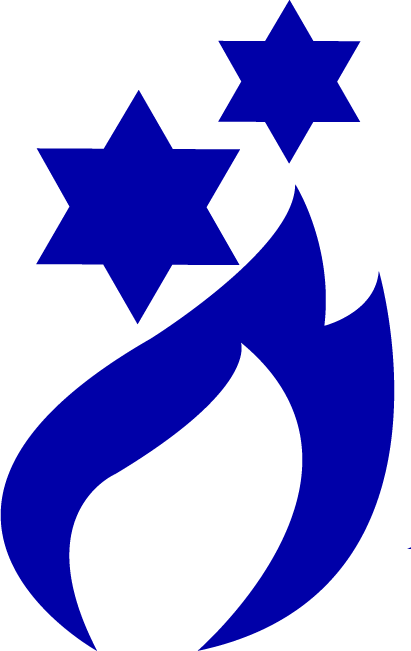
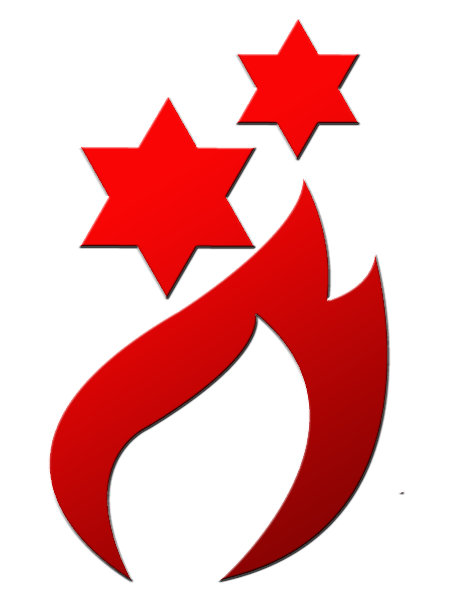
incorporate theme

diff --git a/src/components/PaymentSection.tsx b/src/components/PaymentSection.tsx
@@ -6,8 +6,8 @@ import '../App.css';
 
 const useStyles = makeStyles({
     badge: {
-        backgroundColor: 'gold',
-        color: 'black'
+        backgroundColor: '#F90505',
+        color: 'white'
     }
 });
 
@@ -24,7 +24,7 @@ export const PaymentSection = (props: StateProps) => {
             required
         />
         <ButtonGroup>
-            <Badge classes={{ badge: classes.badge }} badgeContent={`$${sum(state.selectedBoxes)}`} showZero={false} max={69000}>
+            <Badge classes={{ badge: classes.badge }} badgeContent={`$${sum(state.selectedBoxes)}`} showZero={false} max={100000}>
                 <Button size={'large'} color={'primary'} variant={'contained'} disableRipple={false}
                         onClick={() => handlePayNowButton(state)}>Pay Now</Button>
             </Badge>

diff --git a/src/App.tsx b/src/App.tsx
@@ -4,6 +4,7 @@ import {TzedakahTable} from "./components/TzedakahTable";
 import {PaymentSection} from "./components/PaymentSection";
 import {INITIAL_STATE} from "./constants";
 import {getLatestBoxesTaken} from "./handlers/getLatestBoxesTaken";
+import Logo from './images/mission-possible-logo.png';
 
 const App = () => {
     const [state, setState] = useState(INITIAL_STATE);
@@ -11,7 +12,7 @@ const App = () => {
     useEffect(() => getLatestBoxesTaken(state, setState), []);
 
     return <div className={'App'}>
-        <h1>Mission Possible</h1>
+        <img className={'Logo'} src={Logo} alt={'Logo'}/>
         <TzedakahTable state={state} setState={setState}/>
         <PaymentSection state={state} setState={setState}/>
     </div>;

diff --git a/src/components/Box.tsx b/src/components/Box.tsx
@@ -14,7 +14,7 @@ export const Box = (props: BoxProps) => {
     const {boxNumber, props: {state, setState}} = props;
     const {selectedBoxes, boxesTaken} = state;
     const styleOverride = selectedBoxes?.includes(boxNumber) ?
-        {backgroundColor: 'gold'} : boxesTaken?.includes(boxNumber) ? {
+        {backgroundColor: '#F90505'} : boxesTaken?.includes(boxNumber) ? {
             backgroundImage: `url(${Flame})`,
             backgroundSize: 'contain',
             backgroundRepeat: 'no-repeat',

diff --git a/src/App.css b/src/App.css
@@ -7,11 +7,12 @@
 .TableContainer {
   height: 70vh;
   width: 100vw;
-  background-image: linear-gradient(to bottom right, #064AF3, white);
+  background-image: linear-gradient(to bottom right, #53646D, #040004);
 }
 
 .TableContainer td {
-  border: 1px solid black;
+  border: 1px solid white;
+  color: white;
   padding: 0.8rem 0.2rem;
   font-weight: bold;
 }
@@ -25,4 +26,9 @@
 
 .PaymentSection > * {
   margin-top: 0.5rem;
+}
+
+.Logo {
+  margin: auto;
+  width: 50%
 }
